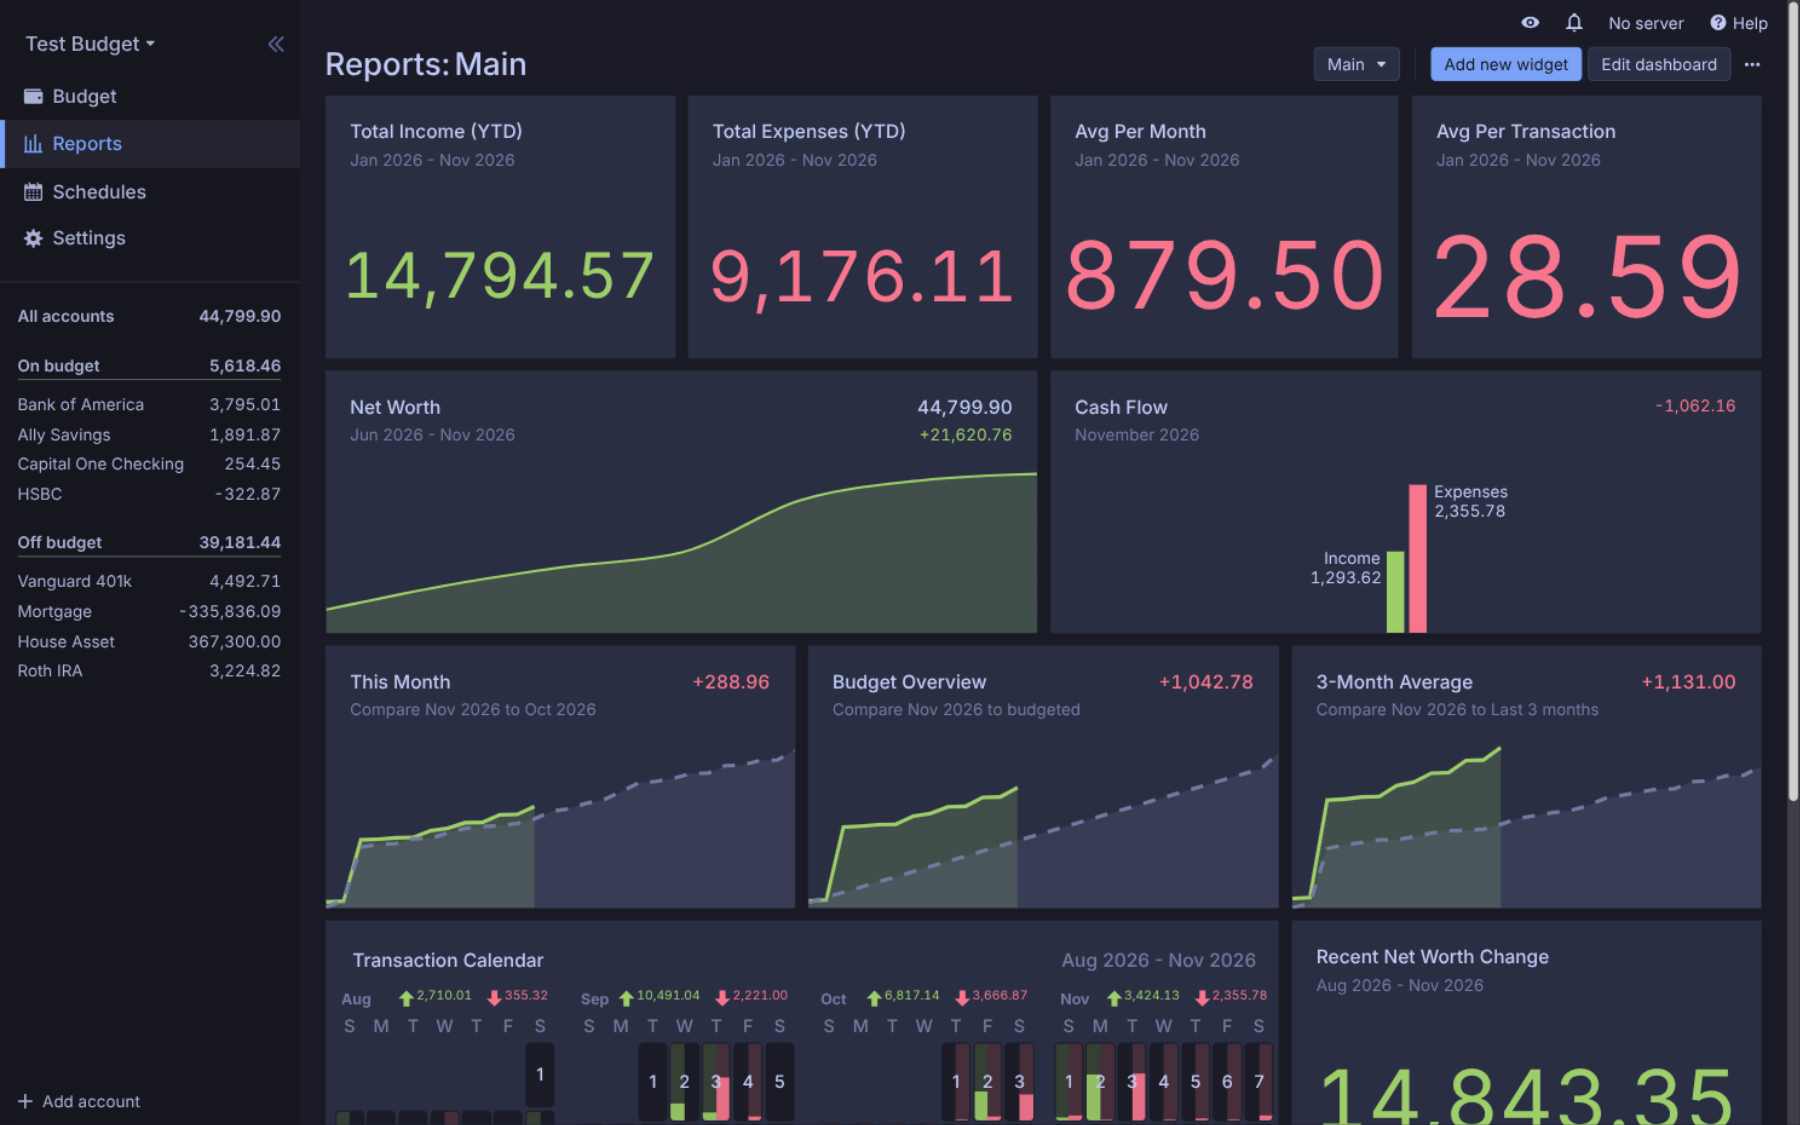
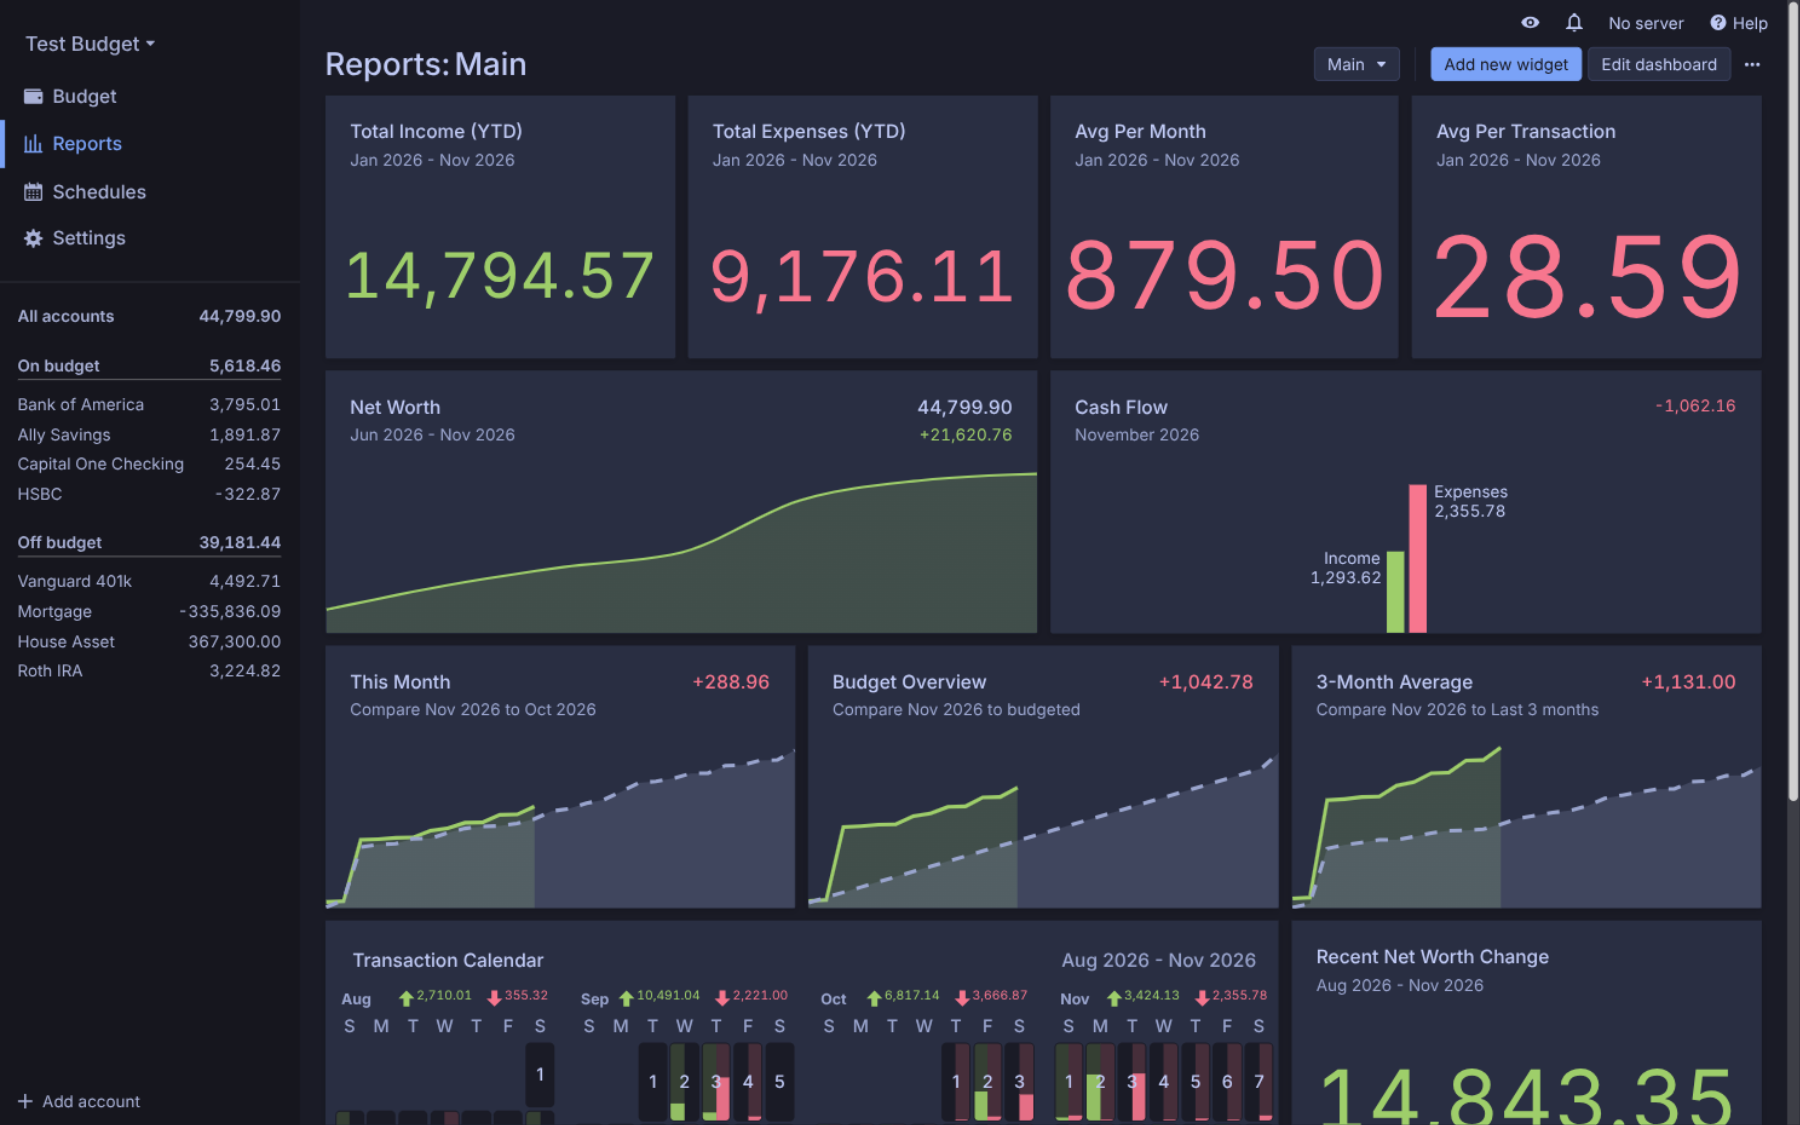
Improve text contrast and define every colour variable
Lighter grey for subdued and inactive text, darker fill behind checkbox
ticks, readable selected day in the date picker, and all 233 --color-*
variables set so nothing falls back to the Light or Dark base theme.
Screenshots retaken.

Changed region(s): [[0.5911, 0.84, 0.6844, 0.8711], [0.56, 0.6222, 0.5911, 0.6533]]

diff --git a/actual.css b/actual.css
@@ -18,6 +18,7 @@
   /* Text */
   --tn-fg: #c0caf5;
   --tn-fg-dark: #a9b1d6;
+  --tn-fg-subdued: #9aa5ce;  /* from the original VS Code theme; dark5 is too dim for text on cards */
   --tn-dark5: #737aa2;
   --tn-comment: #565f89;
 
@@ -37,6 +38,7 @@
   /* Overlays */
   --tn-blue-muted: rgba(122, 162, 247, 0.16);
   --tn-blue-strong: rgba(122, 162, 247, 0.24);
+  --tn-red-muted: rgba(247, 118, 142, 0.16);
   --tn-fg-muted: rgba(192, 202, 245, 0.08);
   --tn-fg-hover: rgba(192, 202, 245, 0.14);
   --tn-shadow: rgba(0, 0, 0, 0.5);
@@ -50,7 +52,7 @@
   --color-pageBackgroundLineBottom: var(--tn-magenta);
   --color-pageText: var(--tn-fg);
   --color-pageTextLight: var(--tn-fg-dark);
-  --color-pageTextSubdued: var(--tn-dark5);
+  --color-pageTextSubdued: var(--tn-fg-subdued);
   --color-pageTextDark: var(--tn-fg);
   --color-pageTextPositive: var(--tn-blue);
   --color-pageTextLink: var(--tn-blue);
@@ -66,9 +68,9 @@
   --color-tableText: var(--tn-fg);
   --color-tableTextItemAdded: var(--color-tableText);
   --color-tableTextLight: var(--tn-fg-dark);
-  --color-tableTextSubdued: var(--tn-dark5);
+  --color-tableTextSubdued: var(--tn-fg-subdued);
   --color-tableTextSelected: var(--tn-fg);
-  --color-tableTextInactive: var(--tn-comment);
+  --color-tableTextInactive: var(--tn-dark5);
   --color-tableHeaderText: var(--tn-fg-dark);
   --color-tableHeaderBackground: var(--tn-bg-highlight);
   --color-tableBorder: var(--tn-gutter);
@@ -82,7 +84,7 @@
 
   --color-numberPositive: var(--tn-green);
   --color-numberNegative: var(--tn-red);
-  --color-numberNeutral: var(--tn-dark5);
+  --color-numberNeutral: var(--tn-fg-subdued);
   --color-budgetNumberNegative: var(--color-numberNegative);
   --color-budgetNumberZero: var(--color-tableTextSubdued);
   --color-budgetNumberNeutral: var(--color-tableText);
@@ -104,11 +106,25 @@
   --color-sidebarItemTextSelected: var(--tn-blue);
   --color-sidebarBudgetName: var(--tn-fg-dark);
   --color-sidebarHeaderText: var(--tn-fg);
-  --color-sidebarTextSubdued: var(--tn-dark5);
-  --color-sidebarTextMuted: var(--tn-comment);
+  --color-sidebarTextSubdued: var(--tn-fg-subdued);
+  --color-sidebarTextMuted: var(--tn-dark5);
+  --color-sidebarTextPositive: var(--color-sidebarItemBackgroundPositive);
+  --color-sidebarTextFailed: var(--color-sidebarItemBackgroundFailed);
+  --color-sidebarBackgroundFailedSubtle: var(--tn-red-muted);
+  --color-sidebarItemBackgroundSelected: var(--tn-blue-muted);
+  --color-sidebarBorder: var(--color-sidebarItemBackgroundHover);
+  --color-sidebarControlBackground: var(--color-sidebarItemBackgroundHover);
+  --color-sidebarBrand: var(--color-sidebarItemAccentSelected);
 
-  --color-settingsCardTextSubdued: var(--tn-dark5);
+  --color-settingsCardBackground: var(--color-tableBackground);
+  --color-settingsCardBorder: var(--color-tableBorder);
+  --color-settingsCardText: var(--color-tableText);
+  --color-settingsCardTextSubdued: var(--tn-fg-subdued);
+  --color-settingsNavItemText: var(--color-pageText);
+  --color-settingsNavItemBackgroundHover: var(--tn-fg-muted);
   --color-settingsNavItemAccentSelected: var(--tn-blue);
+  --color-settingsNavItemTextSelected: var(--tn-blue);
+  --color-settingsNavItemBackgroundSelected: var(--tn-blue-muted);
 
   --color-menuBackground: var(--tn-bg-highlight);
   --color-menuItemBackgroundHover: var(--tn-gutter);
@@ -117,7 +133,7 @@
   --color-menuItemTextSelected: var(--tn-blue);
   --color-menuItemTextHeader: var(--tn-magenta);
   --color-menuBorder: var(--tn-gutter);
-  --color-menuKeybindingText: var(--tn-comment);
+  --color-menuKeybindingText: var(--tn-dark5);
   --color-menuAutoCompleteBackground: var(--tn-bg-dark);
   --color-menuAutoCompleteBackgroundHover: var(--tn-gutter);
   --color-menuAutoCompleteText: var(--tn-fg);
@@ -130,14 +146,14 @@
   --color-modalBorder: var(--tn-gutter);
   --color-mobileHeaderBackground: var(--tn-bg-dark);
   --color-mobileHeaderText: var(--tn-blue);
-  --color-mobileHeaderTextSubdued: var(--tn-dark5);
+  --color-mobileHeaderTextSubdued: var(--tn-fg-subdued);
   --color-mobileHeaderTextHover: var(--tn-fg-hover);
   --color-mobilePageBackground: var(--tn-bg);
   --color-mobileNavBackground: var(--tn-bg-dark);
   --color-mobileNavItem: var(--tn-fg-dark);
   --color-mobileNavItemSelected: var(--tn-blue);
   --color-mobileAccountText: var(--tn-cyan);
-  --color-mobileTransactionSelected: var(--tn-blue0);
+  --color-mobileTransactionSelected: var(--tn-blue7);
   --color-mobileViewTheme: var(--color-mobileHeaderBackground);
   --color-mobileConfigServerViewTheme: var(--tn-blue);
 
@@ -162,7 +178,7 @@
   --color-buttonPrimaryBackgroundHover: var(--tn-cyan);
   --color-buttonPrimaryBorder: var(--color-buttonPrimaryBackground);
   --color-buttonPrimaryShadow: var(--tn-shadow);
-  --color-buttonPrimaryDisabledText: var(--tn-comment);
+  --color-buttonPrimaryDisabledText: var(--tn-fg-subdued);
   --color-buttonPrimaryDisabledBackground: var(--tn-gutter);
   --color-buttonPrimaryDisabledBorder: var(--color-buttonPrimaryDisabledBackground);
 
@@ -174,15 +190,15 @@
   --color-buttonNormalShadow: var(--tn-shadow);
   --color-buttonNormalSelectedText: var(--tn-bg-dark);
   --color-buttonNormalSelectedBackground: var(--tn-blue);
-  --color-buttonNormalDisabledText: var(--tn-comment);
+  --color-buttonNormalDisabledText: var(--tn-dark5);
   --color-buttonNormalDisabledBackground: var(--tn-bg);
   --color-buttonNormalDisabledBorder: var(--tn-gutter);
 
   --color-calendarText: var(--tn-fg);
   --color-calendarBackground: var(--tn-bg-highlight);
   --color-calendarItemText: var(--tn-fg);
-  --color-calendarItemBackground: var(--tn-gutter);
-  --color-calendarSelectedBackground: var(--color-buttonNormalSelectedBackground);
+  --color-calendarItemBackground: var(--tn-bg);
+  --color-calendarSelectedBackground: var(--tn-blue7);
   --color-calendarCellBackground: var(--tn-bg);
   --color-datePickerRangeBackground: var(--tn-blue7);
 
@@ -218,37 +234,37 @@
   --color-formLabelBackground: var(--tn-bg-highlight);
   --color-formInputBackground: var(--tn-bg-dark);
   --color-formInputBackgroundSelected: var(--tn-bg-dark);
-  --color-formInputBackgroundSelection: var(--tn-blue0);
+  --color-formInputBackgroundSelection: var(--tn-blue7);
   --color-formInputBorder: var(--tn-gutter);
   --color-formInputTextReadOnlySelection: var(--tn-bg-highlight);
   --color-formInputBorderSelected: var(--tn-blue);
   --color-formInputText: var(--tn-fg);
-  --color-formInputTextPlaceholder: var(--tn-comment);
-  --color-formInputTextPlaceholderSelected: var(--tn-dark5);
+  --color-formInputTextPlaceholder: var(--tn-dark5);
+  --color-formInputTextPlaceholderSelected: var(--tn-fg-subdued);
   --color-formInputShadowSelected: var(--tn-blue0);
   --color-formInputTextHighlight: var(--tn-blue);
-  --color-checkboxText: var(--color-tableText);
-  --color-checkboxBackgroundSelected: var(--tn-blue);
+  --color-checkboxText: var(--tn-fg);
+  --color-checkboxBackgroundSelected: var(--tn-blue0);
   --color-checkboxBorderSelected: var(--tn-blue);
   --color-checkboxShadowSelected: var(--tn-blue0);
   --color-checkboxToggleBackground: var(--tn-terminal-black);
   --color-checkboxToggleBackgroundSelected: var(--tn-blue);
   --color-checkboxToggleDisabled: var(--tn-gutter);
 
-  --color-pillBackground: var(--tn-gutter);
+  --color-pillBackground: var(--tn-bg-highlight);
   --color-pillBackgroundLight: var(--tn-bg-highlight);
   --color-pillText: var(--tn-fg);
   --color-pillTextHighlighted: var(--tn-blue);
   --color-pillBorder: var(--tn-gutter);
   --color-pillBorderDark: var(--color-pillBorder);
-  --color-pillBackgroundSelected: var(--tn-blue0);
+  --color-pillBackgroundSelected: var(--tn-blue7);
   --color-pillTextSelected: var(--tn-fg);
   --color-pillBorderSelected: var(--tn-blue);
 
   --color-reportsRed: var(--tn-red);
   --color-reportsBlue: var(--tn-blue);
   --color-reportsGreen: var(--tn-green);
-  --color-reportsGray: var(--tn-dark5);
+  --color-reportsGray: var(--tn-fg-subdued);
   --color-reportsLabel: var(--color-pageText);
   --color-reportsInnerLabel: var(--tn-bg);
   --color-reportsNumberPositive: var(--color-numberPositive);
